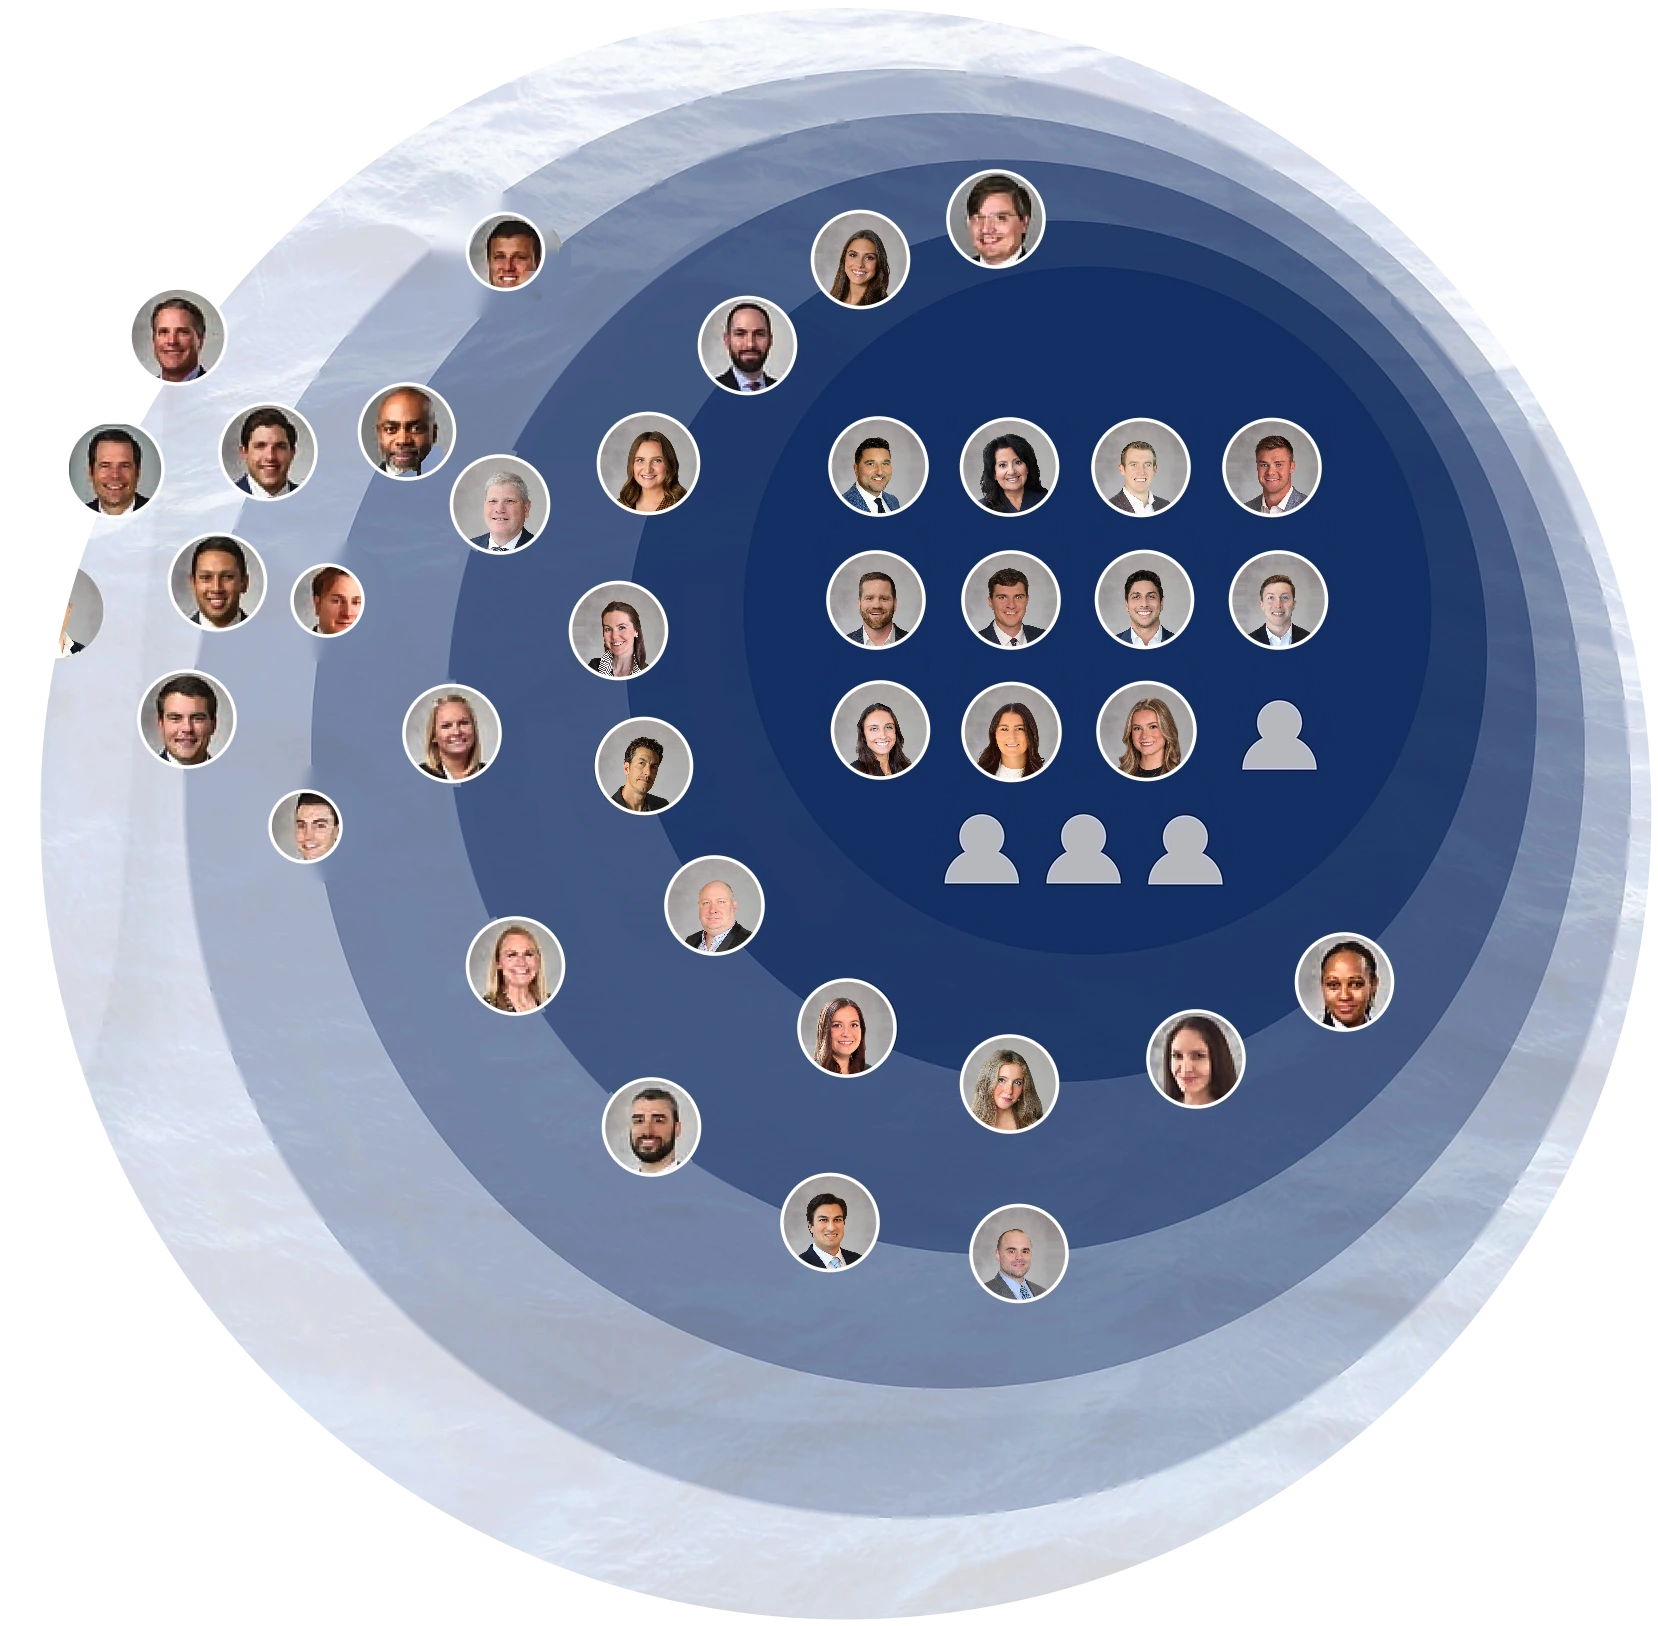
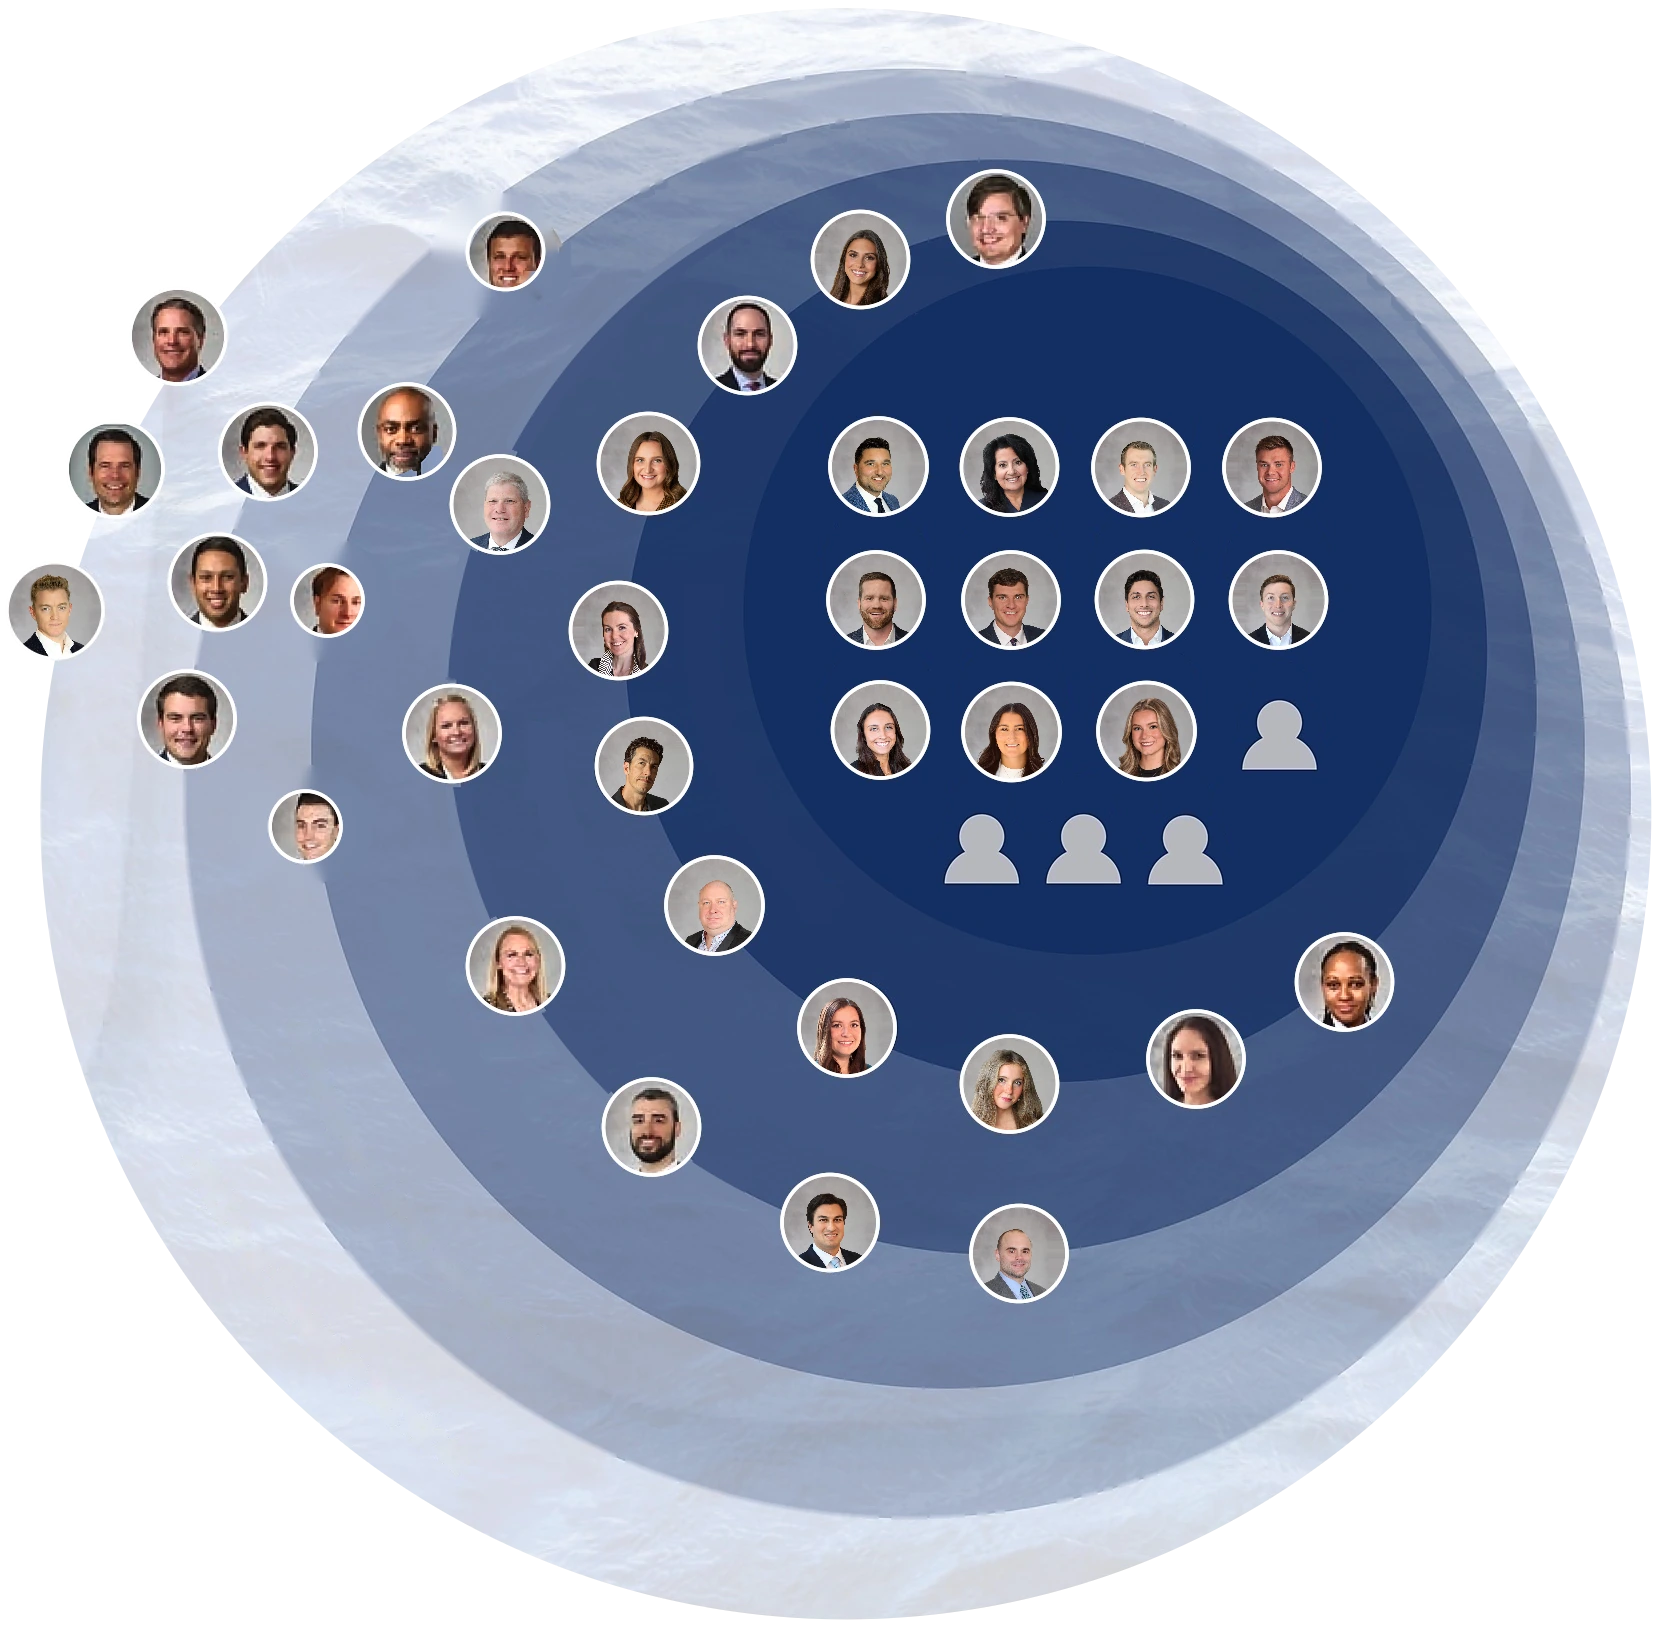
Restore the edge face in the circle (Adam Showalter)
Claude-Session: https://claude.ai/code/session_013rjN9eXsQUGtogBW2y87jx

Changed region(s): [[0.0, 0.3383, 0.0615, 0.3998]]

diff --git a/index.html b/index.html
@@ -142,7 +142,7 @@
         </div>
         <!-- Ring labels are live text (SVG) over the photo circle so they stay sharp; paths follow each ring -->
         <figure class="numbers__org">
-          <img src="img/org-circle.webp?v=6" alt="Stream Chicago platform: Industrial Brokerage, Research &amp; Marketing, Property &amp; Construction Management, Development Services, Investment Management and National Investor Services" width="1658" height="1626" loading="lazy">
+          <img src="img/org-circle.webp?v=7" alt="Stream Chicago platform: Industrial Brokerage, Research &amp; Marketing, Property &amp; Construction Management, Development Services, Investment Management and National Investor Services" width="1658" height="1626" loading="lazy">
           <svg class="org__labels" viewBox="0 0 1658 1626" aria-hidden="true">
             <defs>
               <path id="ring-1" d="M1337.3 908.6 L1338.6 907.4 L1339.8 906.2 L1341.0 905.0 L1342.2 903.8 L1343.4 902.6 L1344.6 901.4 L1345.8 900.2 L1347.0 899.0 L1348.2 897.8 L1349.4 896.6 L1350.5 895.3 L1351.7 894.1 L1352.9 892.8 L1354.0 891.6 L1355.2 890.4 L1356.3 889.1 L1357.4 887.8 L1358.6 886.6 L1359.7 885.3 L1360.8 884.0 L1361.9 882.8 L1363.0 881.5 L1364.1 880.2 L1365.2 878.9 L1366.3 877.6 L1367.4 876.3 L1368.5 875.0 L1369.6 873.7 L1370.6 872.4 L1371.7 871.1 L1372.7 869.7 L1373.8 868.4 L1374.8 867.1 L1375.9 865.8 L1376.9 864.4 L1377.9 863.1 L1378.9 861.7 L1379.9 860.4 L1380.9 859.0 L1381.9 857.7 L1382.9 856.3 L1383.9 855.0 L1384.9 853.6 L1385.9 852.2 L1386.8 850.8 L1387.8 849.5 L1388.7 848.1 L1389.7 846.7 L1390.6 845.3 L1391.6 843.9 L1392.5 842.5 L1393.4 841.1 L1394.3 839.7 L1395.2 838.3 L1396.1 836.9 L1397.0 835.4 L1397.9 834.0 L1398.8 832.6 L1399.7 831.2 L1400.6 829.7 L1401.4 828.3 L1402.3 826.9 L1403.1 825.4 L1404.0 824.0 L1404.8 822.5 L1405.6 821.1 L1406.5 819.6 L1407.3 818.2 L1408.1 816.7 L1408.9 815.3 L1409.7 813.8 L1410.5 812.3 L1411.3 810.9 L1412.1 809.4 L1412.8 807.9 L1413.6 806.4 L1414.4 804.9 L1415.1 803.5 L1415.9 802.0 L1416.6 800.5 L1417.3 799.0 L1418.0 797.5 L1418.8 796.0 L1419.5 794.5 L1420.2 793.0 L1420.9 791.5 L1421.6 790.0 L1422.3 788.4 L1422.9 786.9 L1423.6 785.4 L1424.3 783.9 L1424.9 782.4 L1425.6 780.8 L1426.2 779.3 L1426.9 777.8 L1427.5 776.3 L1428.1 774.7 L1428.8 773.2 L1429.4 771.6 L1430.0 770.1 L1430.6 768.6 L1431.2 767.0 L1431.7 765.5 L1432.3 763.9 L1432.9 762.4 L1433.5 760.8 L1434.0 759.3 L1434.6 757.7 L1435.1 756.1 L1435.6 754.6 L1436.2 753.0 L1436.7 751.5 L1437.2 749.9 L1437.7 748.3 L1438.2 746.8 L1438.7 745.2 L1439.2 743.6 L1439.7 742.0 L1440.2 740.5 L1440.6 738.9 L1441.1 737.3 L1441.6 735.7 L1442.0 734.1 L1442.4 732.6 L1442.9 731.0 L1443.3 729.4 L1443.7 727.8 L1444.1 726.2 L1444.6 724.6 L1445.0 723.0 L1445.3 721.4 L1445.7 719.8 L1446.1 718.2 L1446.5 716.6 L1446.8 715.0 L1447.2 713.4 L1447.6 711.8 L1447.9 710.2 L1448.2 708.6 L1448.6 707.0 L1448.9 705.4 L1449.2 703.8 L1449.5 702.2 L1449.8 700.6 L1450.1 699.0 L1450.4 697.4 L1450.7 695.8 L1451.0 694.2 L1451.2 692.6 L1451.5 691.0 L1451.8 689.3 L1452.0 687.7 L1452.2 686.1 L1452.5 684.5 L1452.7 682.9 L1452.9 681.3 L1453.1 679.7 L1453.4 678.0 L1453.6 676.4 L1453.7 674.8 L1453.9 673.2 L1454.1 671.6 L1454.3 670.0 L1454.5 668.3 L1454.6 666.7 L1454.8 665.1 L1454.9 663.5 L1455.0 661.9 L1455.2 660.3 L1455.3 658.6 L1455.4 657.0 L1455.5 655.4 L1455.6 653.8 L1455.7 652.2 L1455.8 650.5 L1455.9 648.9 L1456.0 647.3 L1456.1 645.7 L1456.1 644.1 L1456.2 642.4 L1456.2 640.8 L1456.3 639.2 L1456.3 637.6 L1456.3 636.0 L1456.4 634.3 L1456.4 632.7 L1456.4 631.1 L1456.4 629.5 L1456.4 627.9 L1456.4 626.3 L1456.3 624.6 L1456.3 623.0 L1456.3 621.4 L1456.2 619.8 L1456.2 618.2 L1456.2 616.6 L1456.1 615.0 L1456.0 613.4 L1456.0 611.7 L1455.9 610.1 L1455.8 608.5 L1455.7 606.9 L1455.6 605.3 L1455.5 603.7 L1455.4 602.1 L1455.3 600.5 L1455.1 598.9 L1455.0 597.3 L1454.9 595.7 L1454.7 594.1 L1454.6 592.5 L1454.4 590.9 L1454.2 589.3 L1454.1 587.7 L1453.9 586.1 L1453.7 584.5 L1453.5 582.9 L1453.3 581.3 L1453.1 579.7 L1452.9 578.1 L1452.7 576.5 L1452.5 574.9 L1452.2 573.3 L1452.0 571.8 L1451.7 570.2 L1451.5 568.6 L1451.2 567.0 L1451.0 565.4 L1450.7 563.9 L1450.4 562.3 L1450.1 560.7 L1449.8 559.1 L1449.5 557.6 L1449.2 556.0 L1448.9 554.4 L1448.6 552.8 L1448.3 551.3 L1448.0 549.7 L1447.6 548.2 L1447.3 546.6 L1446.9 545.0 L1446.6 543.5 L1446.2 541.9 L1445.9 540.4 L1445.5 538.8 L1445.1 537.3 L1444.7 535.7 L1444.3 534.2 L1443.9 532.6 L1443.5 531.1 L1443.1 529.5 L1442.7 528.0 L1442.3 526.5 L1441.8 524.9 L1441.4 523.4 L1440.9 521.9 L1440.5 520.3 L1440.0 518.8 L1439.6 517.3 L1439.1 515.8 L1438.6 514.2 L1438.2 512.7 L1437.7 511.2 L1437.2 509.7 L1436.7 508.2 L1436.2 506.7 L1435.7 505.2 L1435.1 503.7 L1434.6 502.2 L1434.1 500.7 L1433.5 499.2 L1433.0 497.7 L1432.5 496.2 L1431.9 494.7 L1431.3 493.2 L1430.8 491.7 L1430.2 490.3 L1429.6 488.8 L1429.0 487.3 L1428.5 485.8 L1427.9 484.4 L1427.3 482.9 L1426.6 481.4 L1426.0 480.0 L1425.4 478.5 L1424.8 477.0 L1424.2 475.6 L1423.5 474.1"/>
